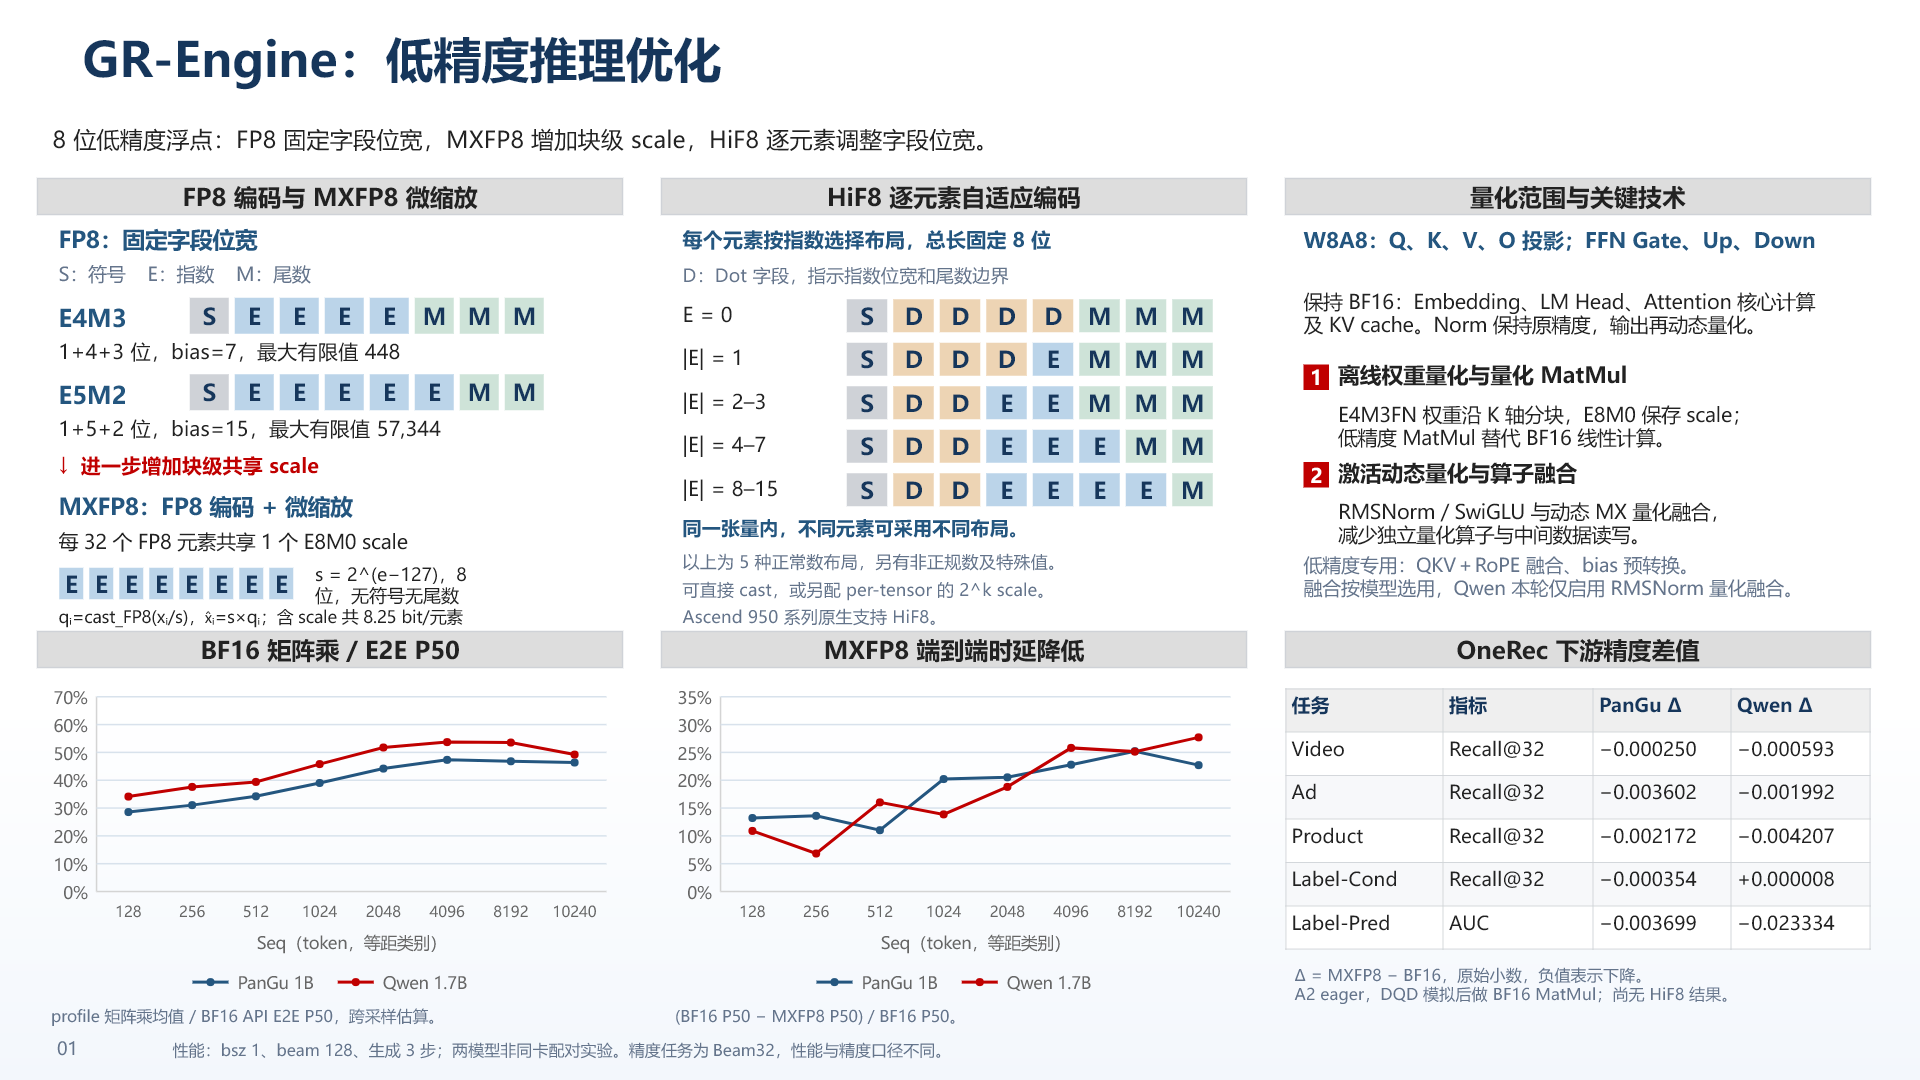
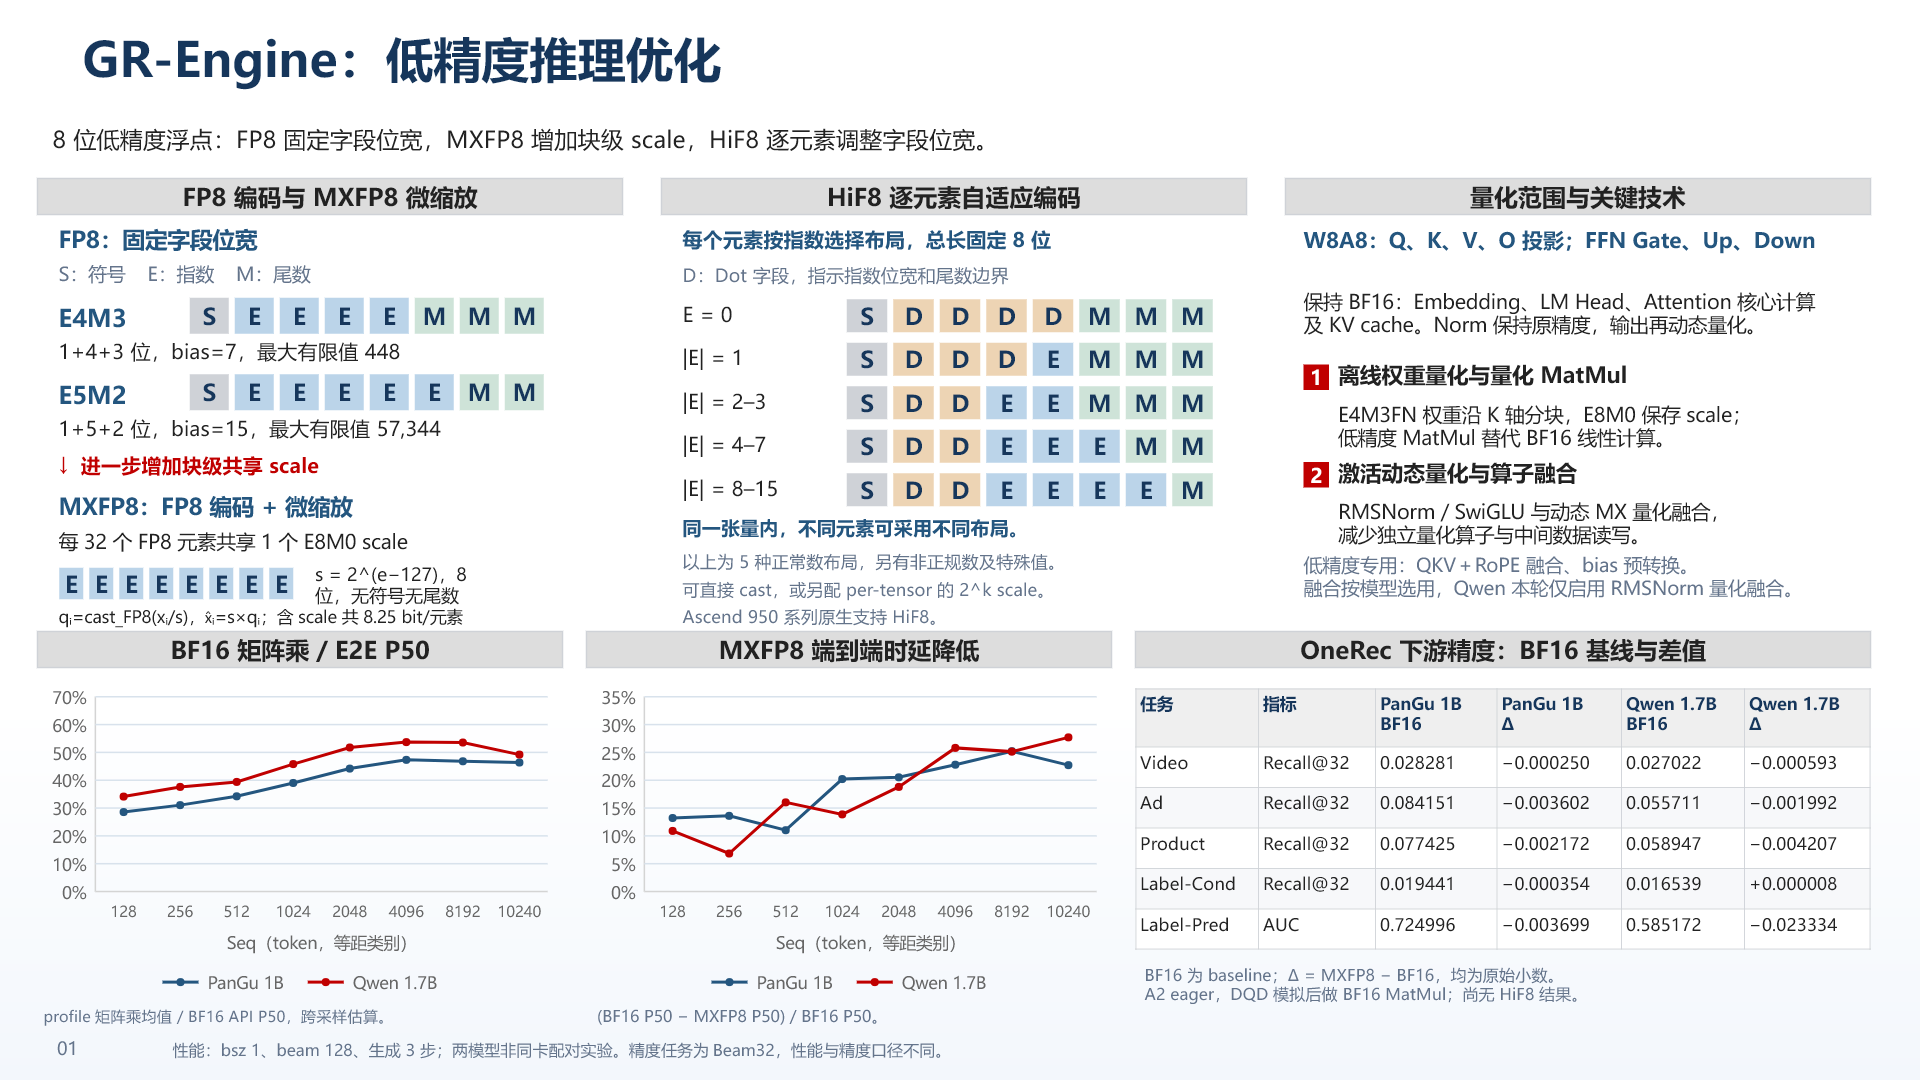
docs: add BF16 baseline columns to accuracy table

diff --git a/README.md b/README.md
@@ -8,7 +8,7 @@
 
 [下载单页 PowerPoint：Recall@32 与 AUC](slides/onerec-recall32-auc.pptx)
 
-[下载单页 PowerPoint：社区分享风格：量化原理、模块、低精度优化与实验结果](slides/mxfp8-hif8-community-style-v3.pptx) · [查看预览](assets/mxfp8-hif8-community-style.png)
+[下载单页 PowerPoint：社区分享风格：量化原理、模块、低精度优化与实验结果](slides/mxfp8-hif8-community-style-v4.pptx) · [查看预览](assets/mxfp8-hif8-community-style.png)
 
 ![PanGu 1B 与 Qwen 1.7B 的 BF16 矩阵乘 E2E 占比估算和 MXFP8 时延降幅](assets/fp8-comparison.png)
 
